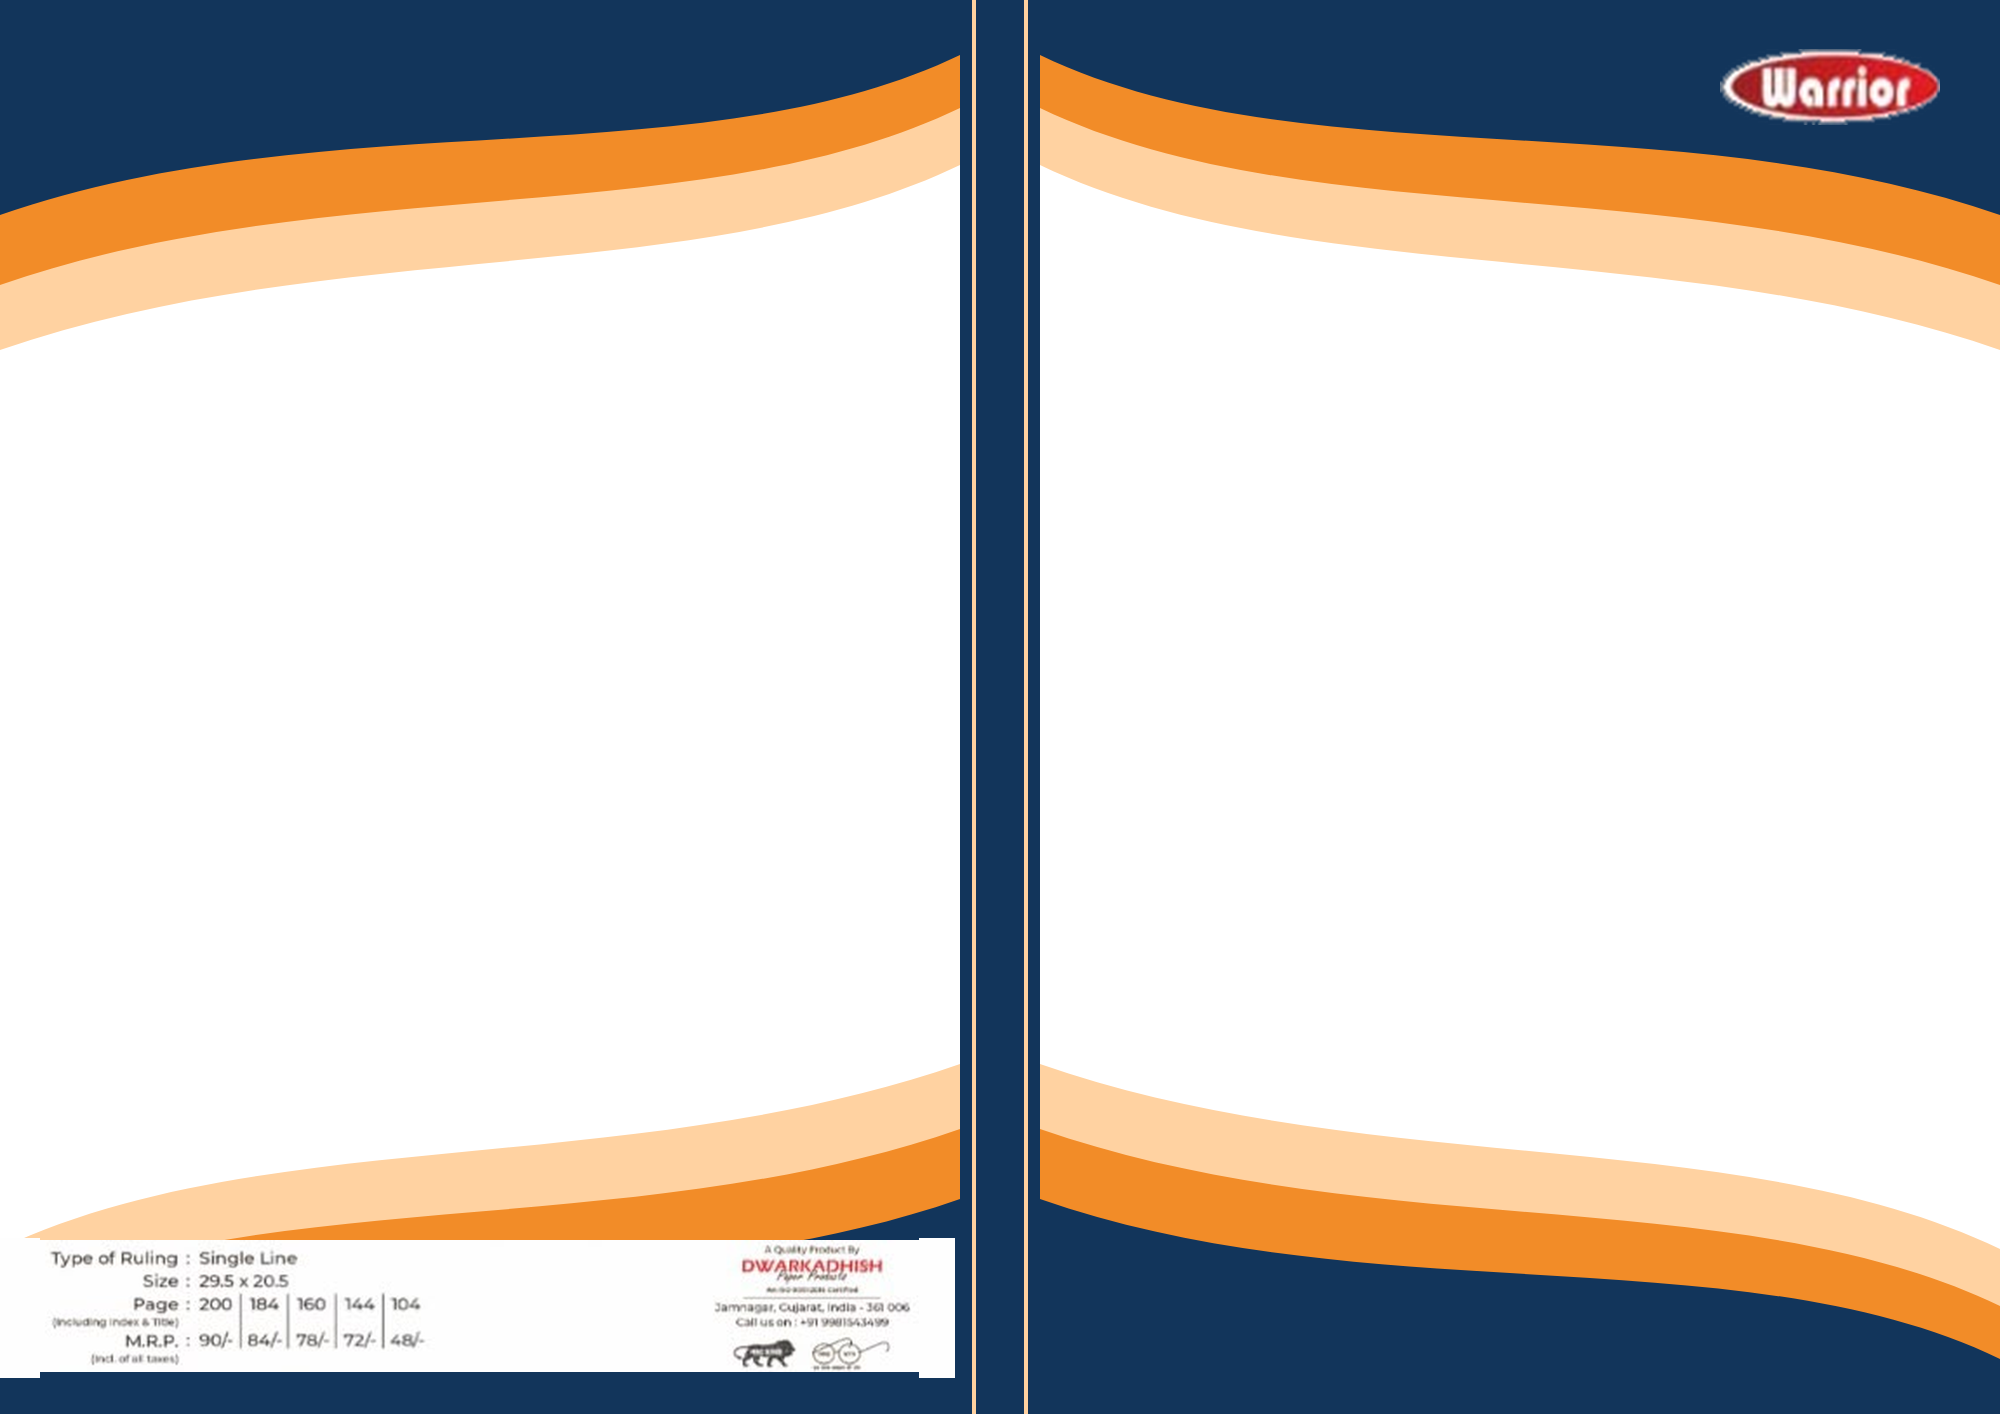
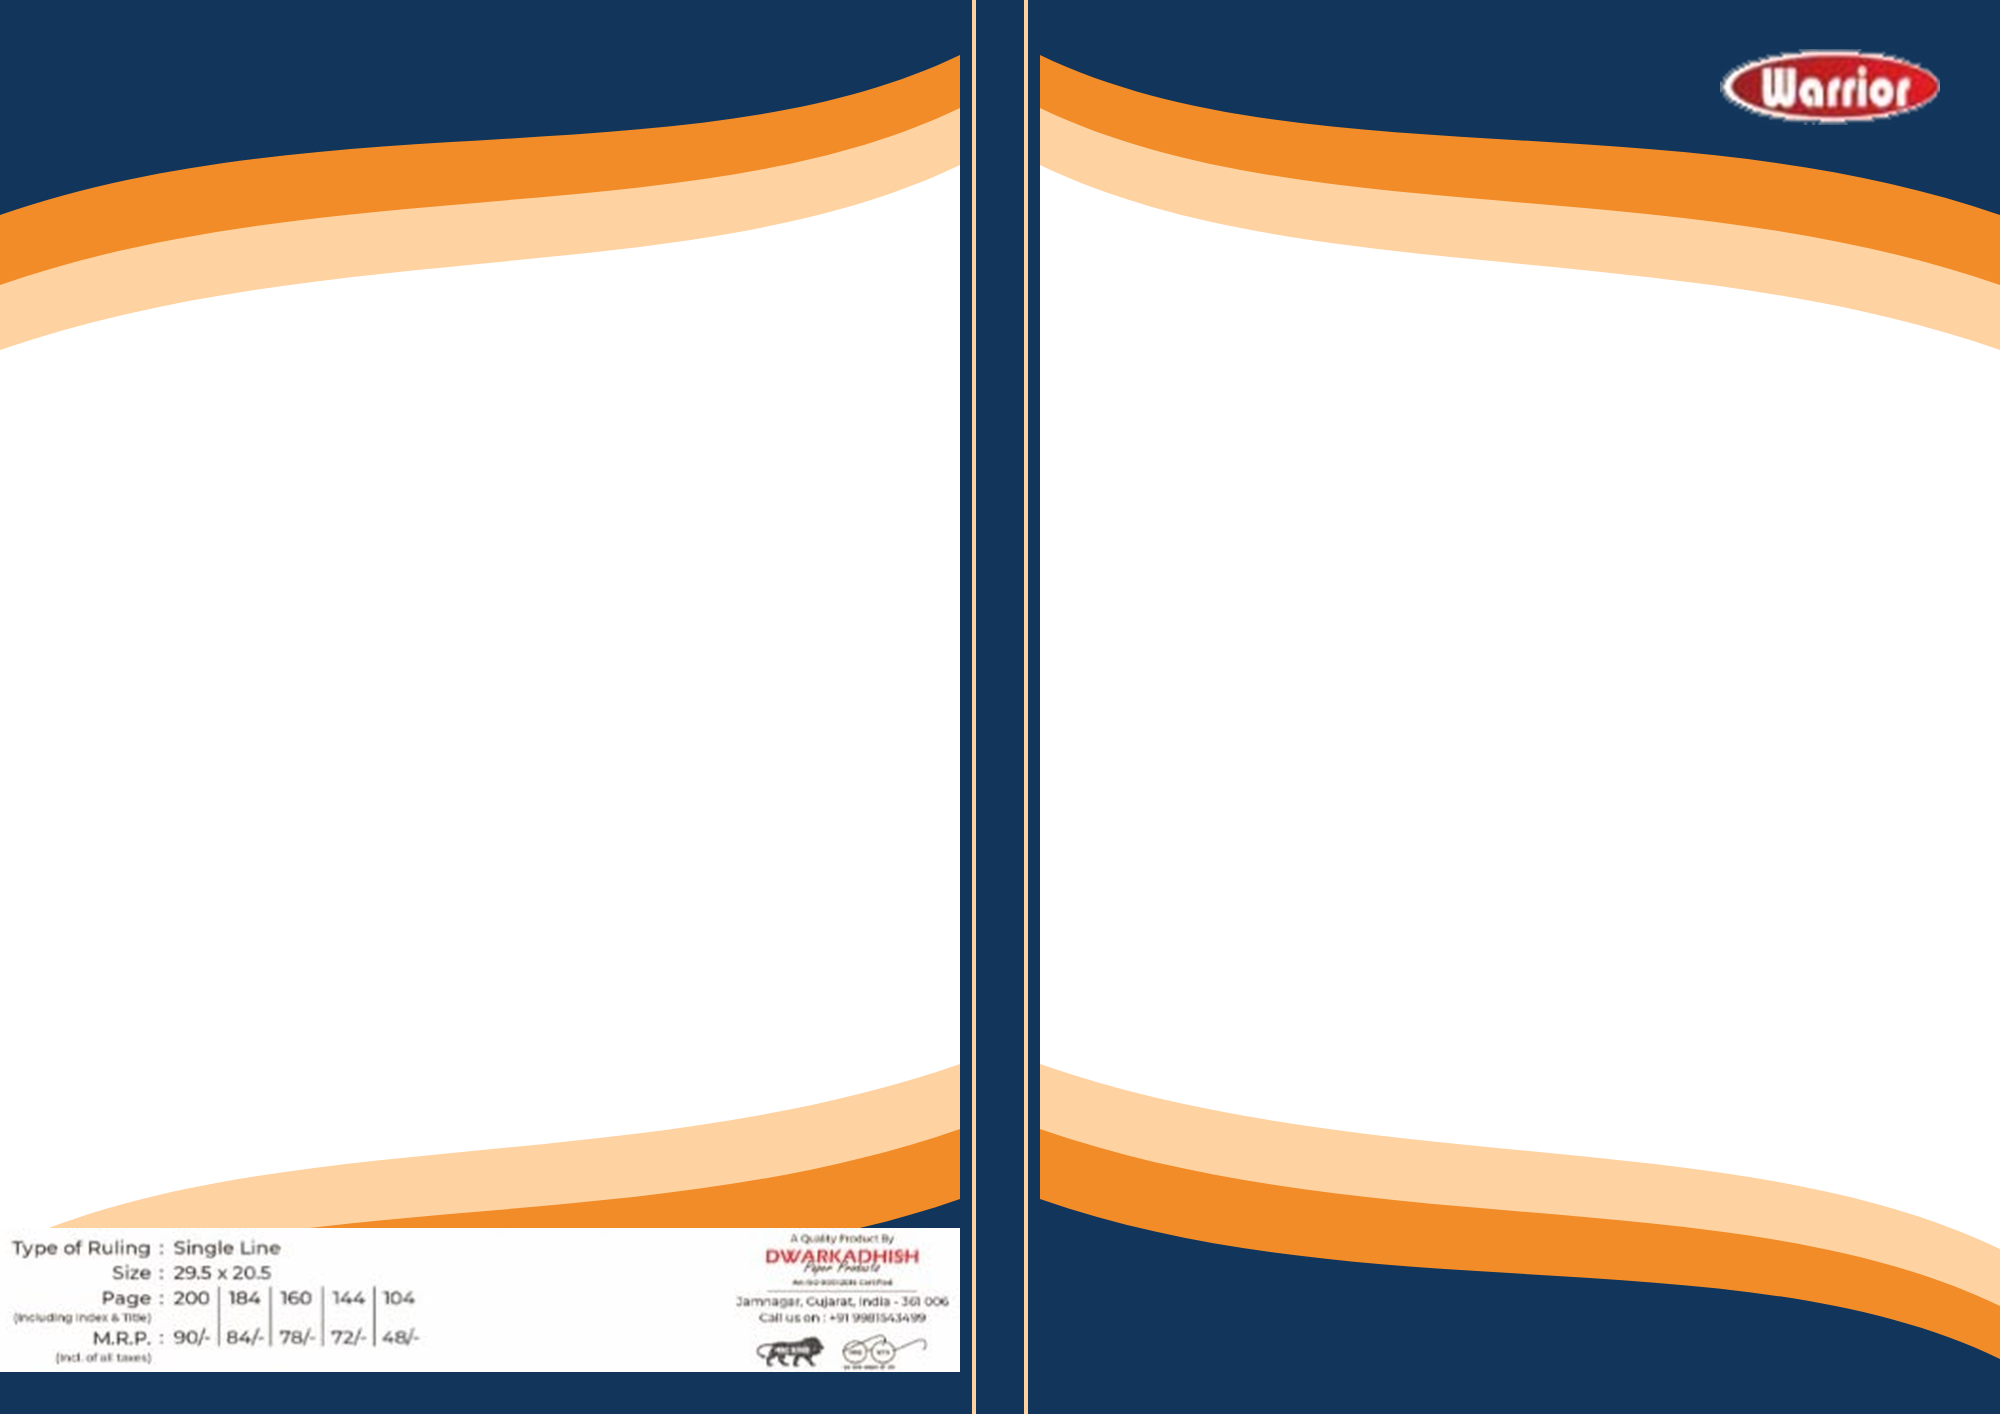
Make the product label span the full back cover, edge to edge
The label was 44% wide and centred, leaving a gap on the left and on the
spine side. It now starts at the left edge of the page and ends at the spine.

- new-templates/Template-5..10: label re-composited at full back-cover width.
- Customise editor and checkout book preview: label uses the template's
  spine start as its width, anchored at left 0.

Claude-Session: https://claude.ai/code/session_01MDTmmpjVg1t4fydVfyYpSt

Changed region(s): [[0.0, 0.8713, 0.496, 0.9646]]

diff --git a/app/checkout/page.tsx b/app/checkout/page.tsx
@@ -445,7 +445,18 @@ export default function CheckoutPage() {
               <img
                 src="/branding/product-label.png"
                 alt="Notebook product details"
-                className="pointer-events-none absolute bottom-[3%] left-[1.5%] z-40 h-auto w-[44%]"
+                className="pointer-events-none absolute bottom-[3%] left-0 z-40 h-auto"
+                style={{
+                  // full back-cover width: left edge of the page to the spine
+                  width:
+                    (item.templateId === "2"
+                      ? 48
+                      : item.templateId === "3"
+                        ? 47.8
+                        : item.templateId === "4"
+                          ? 48.4
+                          : 47.1) + "%",
+                }}
               />
               <img
                 src="/branding/warrior-logo.png"

diff --git a/components/CustomizeBookPage.tsx b/components/CustomizeBookPage.tsx
@@ -48,9 +48,6 @@ const templates = [
   },
 ] as const;
 
-/** Width of the product label on the back cover, in % of the open spread. */
-const LABEL_WIDTH = 44;
-
 const pageOptions = [
   { pages: 200, price: 90 },
   { pages: 184, price: 84 },
@@ -468,8 +465,8 @@ export default function CustomizeBookPage() {
                     alt="Type of ruling, size, pages and M.R.P."
                     className="pointer-events-none absolute z-[25] h-auto"
                     style={{
-                      width: `${LABEL_WIDTH}%`,
-                      left: `${(selectedTemplate.spine.start - LABEL_WIDTH) / 2}%`,
+                      width: `${selectedTemplate.spine.start}%`,
+                      left: 0,
                       bottom: "3%",
                     }}
                   />
